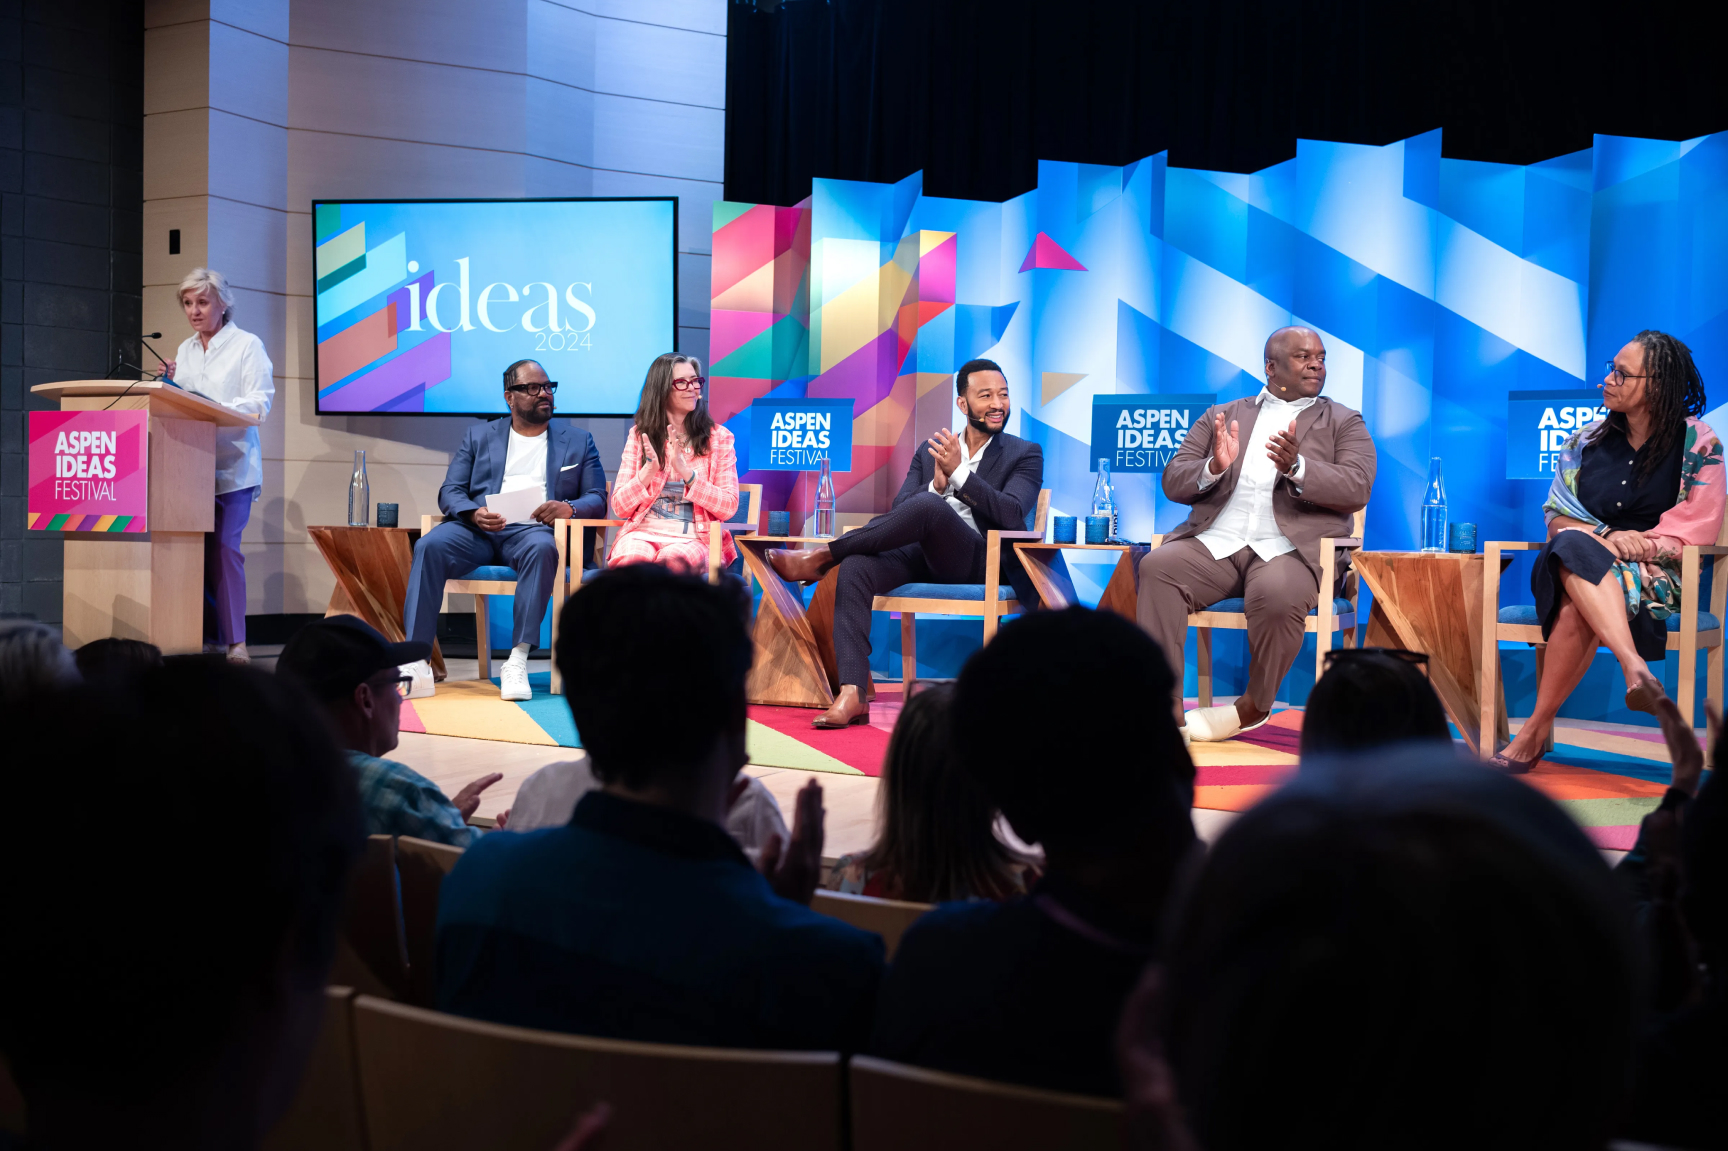
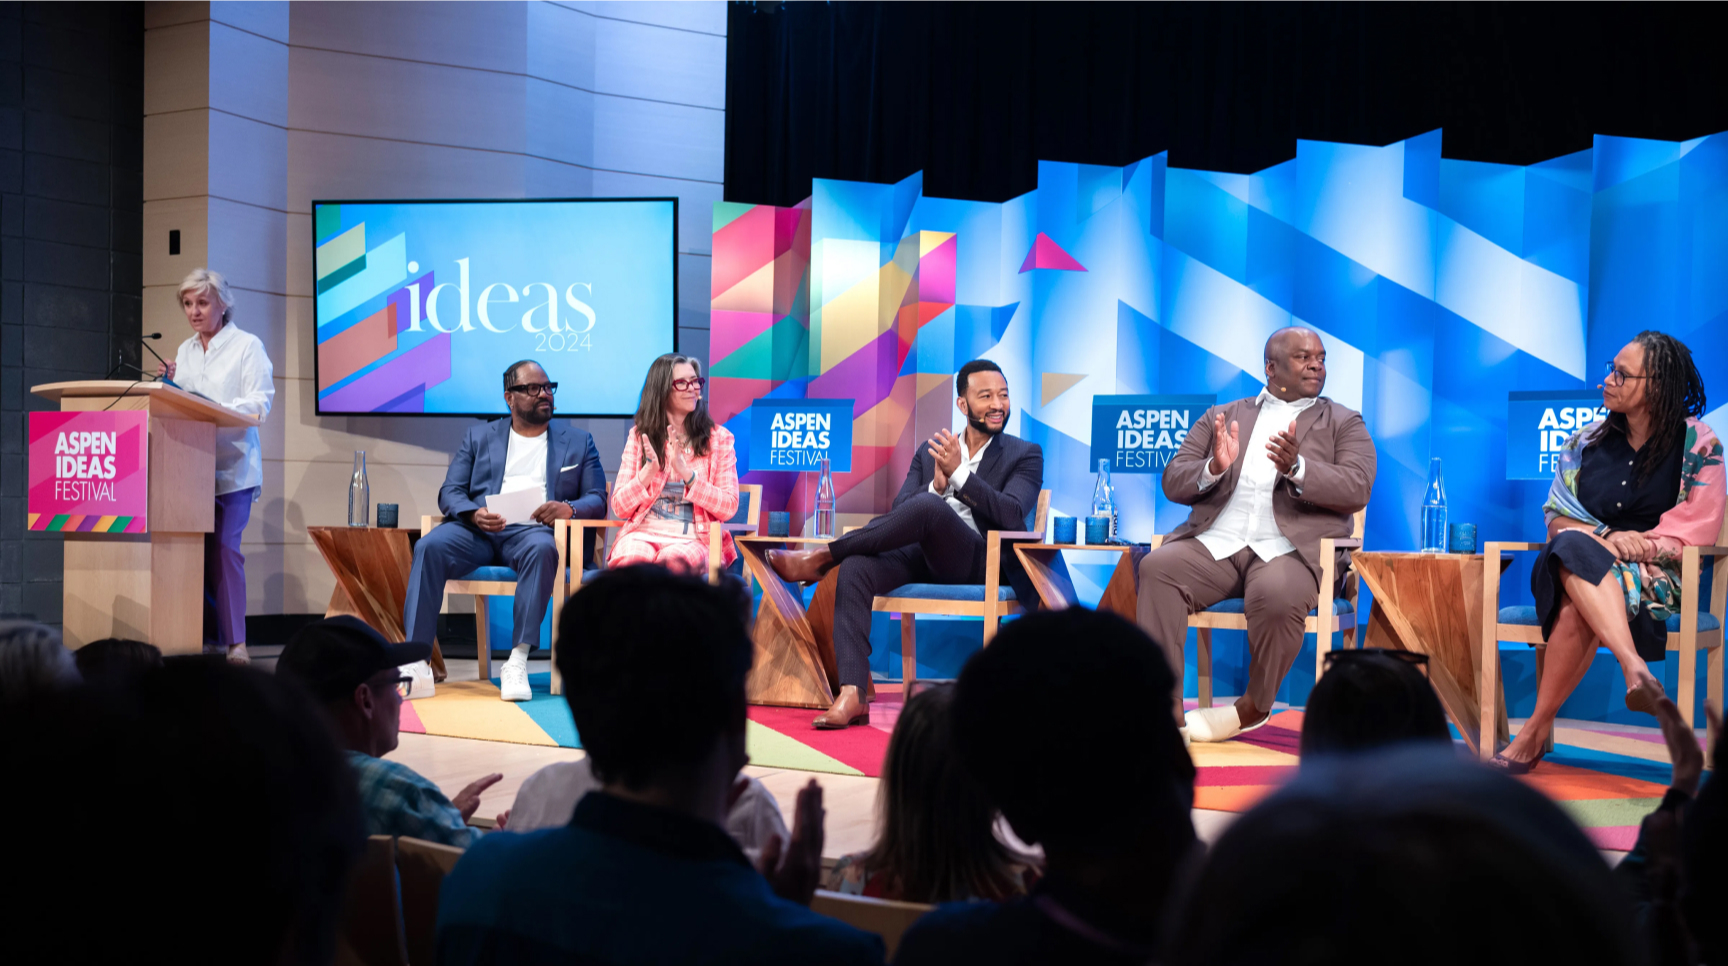
feat(content): more content updates

diff --git a/collections/_shows/marfa.html b/collections/_shows/marfa.html
@@ -4,17 +4,11 @@ link:
   anchor: "marfa"
   label: "Marfa for Beginners"
 logo: 
-  url: img/shows/marfa-for-beginners.png
+  url: "img/shows/marfa-for-beginners.png"
   alt: "Marfa for Beginners"
 audio: 
-  url: https://dts.podtrac.com/redirect.mp3/dovetail.prxu.org/4482/87a89048-f0e3-4dfa-a560-1379264bc313/M4B_The_End_of_Tinder_FINAL_EPISODE.mp3?_from=play.prx.org
+  url: "https://dts.podtrac.com/redirect.mp3/dovetail.prxu.org/4482/87a89048-f0e3-4dfa-a560-1379264bc313/M4B_The_End_of_Tinder_FINAL_EPISODE.mp3?_from=play.prx.org"
   title: "The End of Tinder"
-quote: 
-  text: "PRX and Marfa Public Radio are soulmates. Both organizations value curiosity, care, ideation, and experimentation."
-  citation: "— Elise Pepple, Executive Director at Marfa Public Radio"
 ---
-<p><a href="https://www.marfapublicradio.org/podcast/marfaforbeginners"><em>Marfa For Beginners</em></a> is a podcast about the romantic art town of the same name in the middle of the West Texas desert. The first podcast out of Marfa Public Radio, <em>Marfa For Beginners</em> features episodes with a distinct sound — from "The End of Tinder," a story about love and loneliness and what happens when you swipe to the end of a dating app in a small city, to "The Longest Shortest Day," about how time functions differently in the desert. This year, the podcast was recognized for excellence in innovation with an national Edward R. Murrow Award.</p>
 
-<p><em>Marfa For Beginners</em> reaches listeners with the help of PRX infrastructure — hosted on PRX's Dovetail and available to public radio stations via the PRX Exchange. It's also a podcast championed by PRX from its beginnings. Our content development team worked closely as consultants with Marfa Public Radio to help develop and produce <em>Marfa For Beginners</em> and <em>So Far From Care</em>, a podcast about access to reproductive healthcare. PRX also supported the station's general podcast and media strategy, helping Marfa Public Radio reconceptualize their work as a future-focused station.</p>
-
-<p><strong>Efficiency, innovation, and community engagement are key to becoming a station that is ready for the next generation.</strong> With guidance from PRX, Marfa Public Radio has rethought how they serve listeners and exist as a free public service, responding to shortcomings in how public radio stations have operated in the past. PRX's hands-on work with stations is part of how we are helping future-proof public media infrastructure. It's also key to our mission — we want support for public media stations to be synonymous with PRX.</p>
+<p>test</p>

diff --git a/collections/_shows/ear-hustle.html b/collections/_shows/ear-hustle.html
@@ -15,6 +15,9 @@ funders: "Mellon Foundation, Meadow Fund, The Just Trust, listener supporters"
 quote: 
   text: "If you are sensitive to the sounds around you, you can make any room come alive. &DotDot; When you are involved in a creative process, the direness of your environment fades a little bit. You kind of forget where you are."
   citation: "&mdash; Nigel Poor, Co-Host and Co-Creator of <em>Ear Hustle</em>"
+featured-image:
+  url: "img/content/legend.jpg"
+  alt: "The team for Ear Hustle on a panel at the Aspen Ideas conference with John Legend"
 ---
 
 <p><a href="https://www.earhustlesq.com"><em>Ear Hustle</em></a> is uniquely adept at telling expansive stories from confined spaces as the first podcast created and produced in prison. Starting from inside San Quentin State Prison in 2016, <em>Ear Hustle</em> also shares perspectives from the outside, post-incarceration. Episodes have been downloaded more than 81 million times, and incarcerated people in prisons around the world can also listen to the podcast.</p>

diff --git a/_includes/page-types/show.html b/_includes/page-types/show.html
@@ -40,19 +40,19 @@
     </div>
   </div>
   <div class="show-footer">
-    {%- if show.mosaic -%}
-    {%- assign mosaic = show.mosaic -%}
-    <div class="show-mosaic">
-      {% include components/show-mosaic.html %}
-    </div>
-    {%- endif -%}
-
     {%- if show.donor-quote -%}
     <div class="show-donor-quote">
       {% include components/quote.html 
         text=show.donor-quote.text 
         citation=show.donor-quote.citation
       %}
+    </div>
+    {%- endif -%}
+
+    {%- if show.mosaic -%}
+    {%- assign mosaic = show.mosaic -%}
+    <div class="show-mosaic">
+      {% include components/show-mosaic.html %}
     </div>
     {%- endif -%}
 

diff --git a/collections/_shows/weight-for-it.html b/collections/_shows/weight-for-it.html
@@ -4,15 +4,15 @@ link:
   anchor: "weight-for-it"
   label: "Weight for It"
 
-logo: 
+logo:
   url: "img/shows/weight-for-it.png"
   alt: "Weight for It"
-audio: 
+audio:
   url: "https://dts.podtrac.com/redirect.mp3/pdrl.fm/060a88/dovetail.prxu.org/4548/10efe2d5-cc67-4c44-942d-27757765c993/W4I_005_Articles_of_Weight_v07_1of3.mp3"
   title: "Articles of Weight"
-featured-image: 
-  url: "img/content/weight-for-it.jpg"
-  alt: "The team at Weight for It speaks on a panel"
+featured-image:
+  url: "img/content/weight-for-it2.jpg"
+  alt: "The team at Weight for It laughs on a panel"
 
 ---
 
